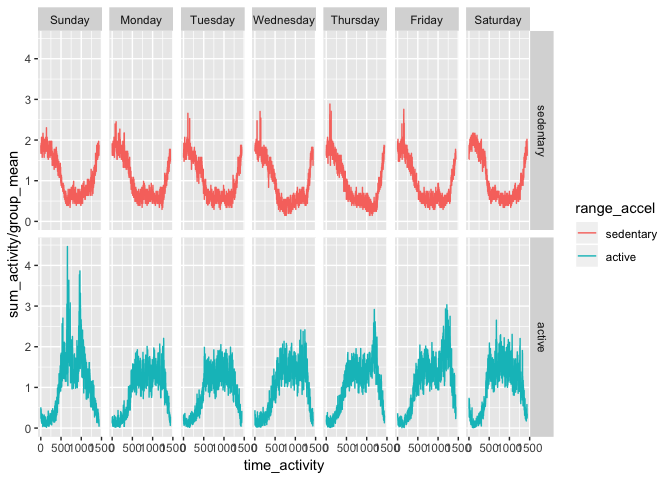
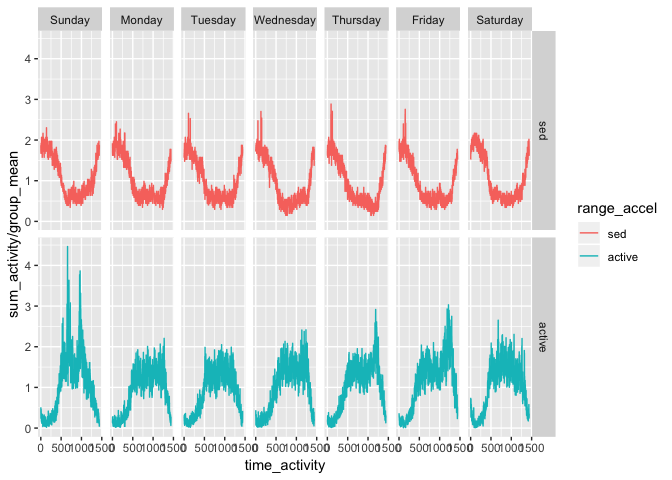
lost a push, no where to find... that's strange

diff --git a/p8105_mtp_zf2213.md b/p8105_mtp_zf2213.md
@@ -70,14 +70,14 @@ The following analysis are based on these three types of activities.
 
 ``` r
 # subgroup range of activity 
-acc <- acc %>% mutate(range_accel = cut(accel, c(0, 8, Inf), labels = c("sedentary", "active"))) 
+acc <- acc %>% mutate(range_accel = cut(accel, c(0, 8, Inf), labels = c("sed", "active"))) 
 acc %>% count(range_accel)
 ```
 
     ## # A tibble: 2 x 2
     ##   range_accel      n
     ##   <fct>        <int>
-    ## 1 sedentary   204542
+    ## 1 sed         204542
     ## 2 active      269218
 
 ``` r
